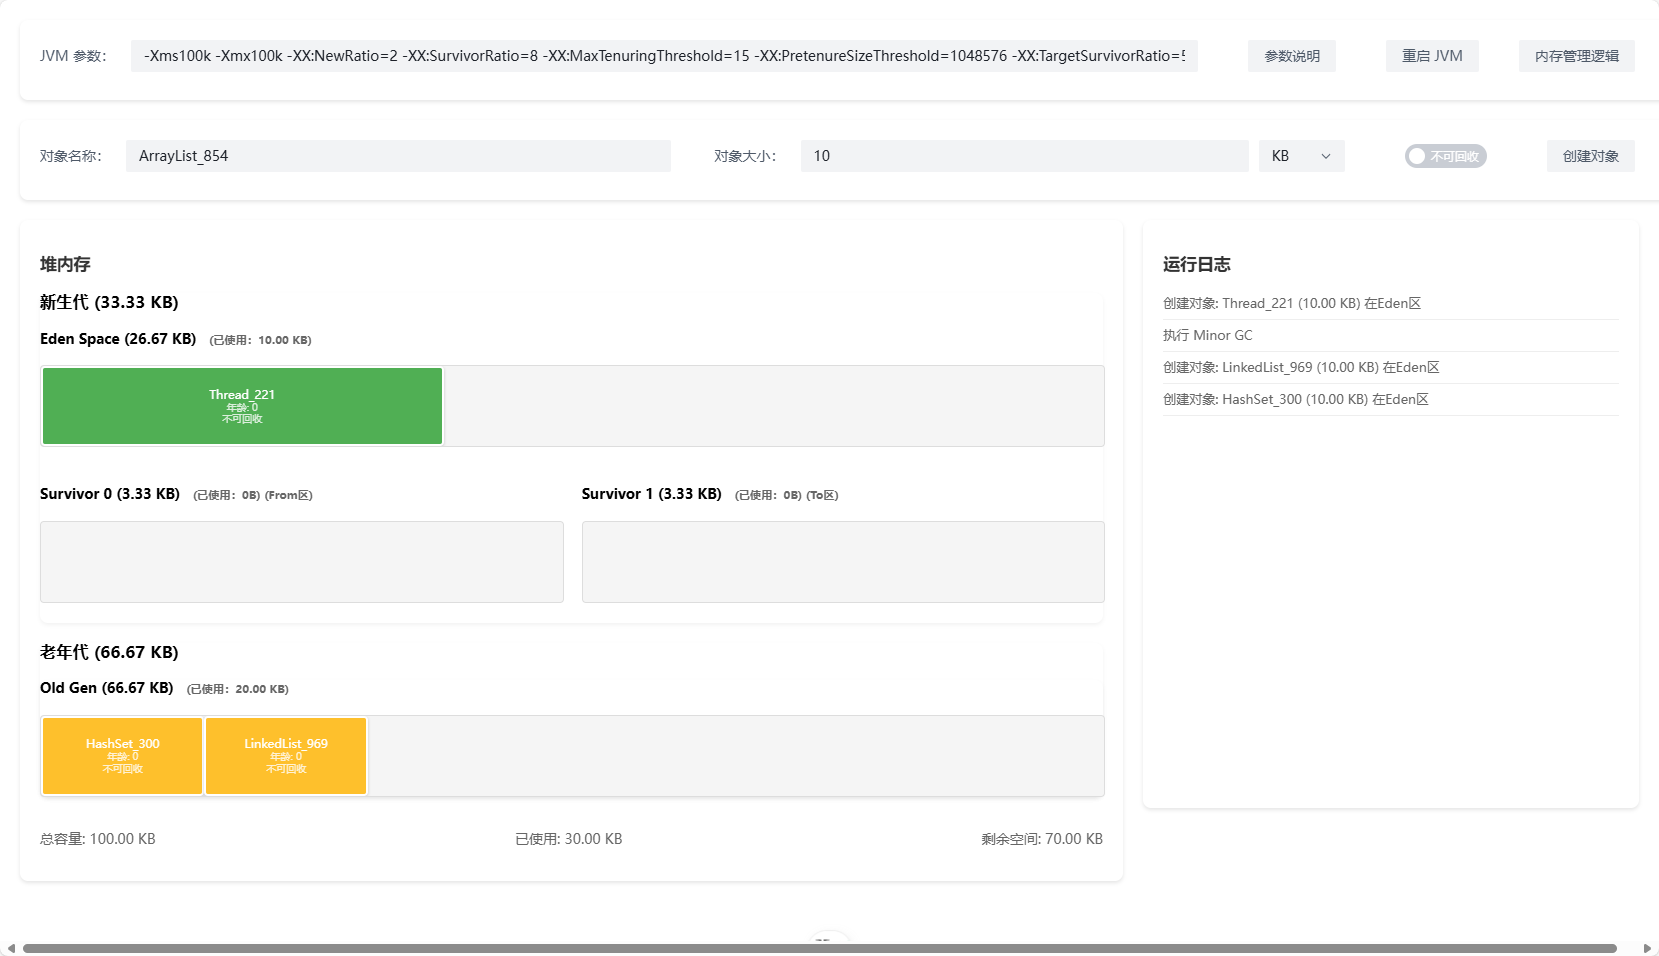
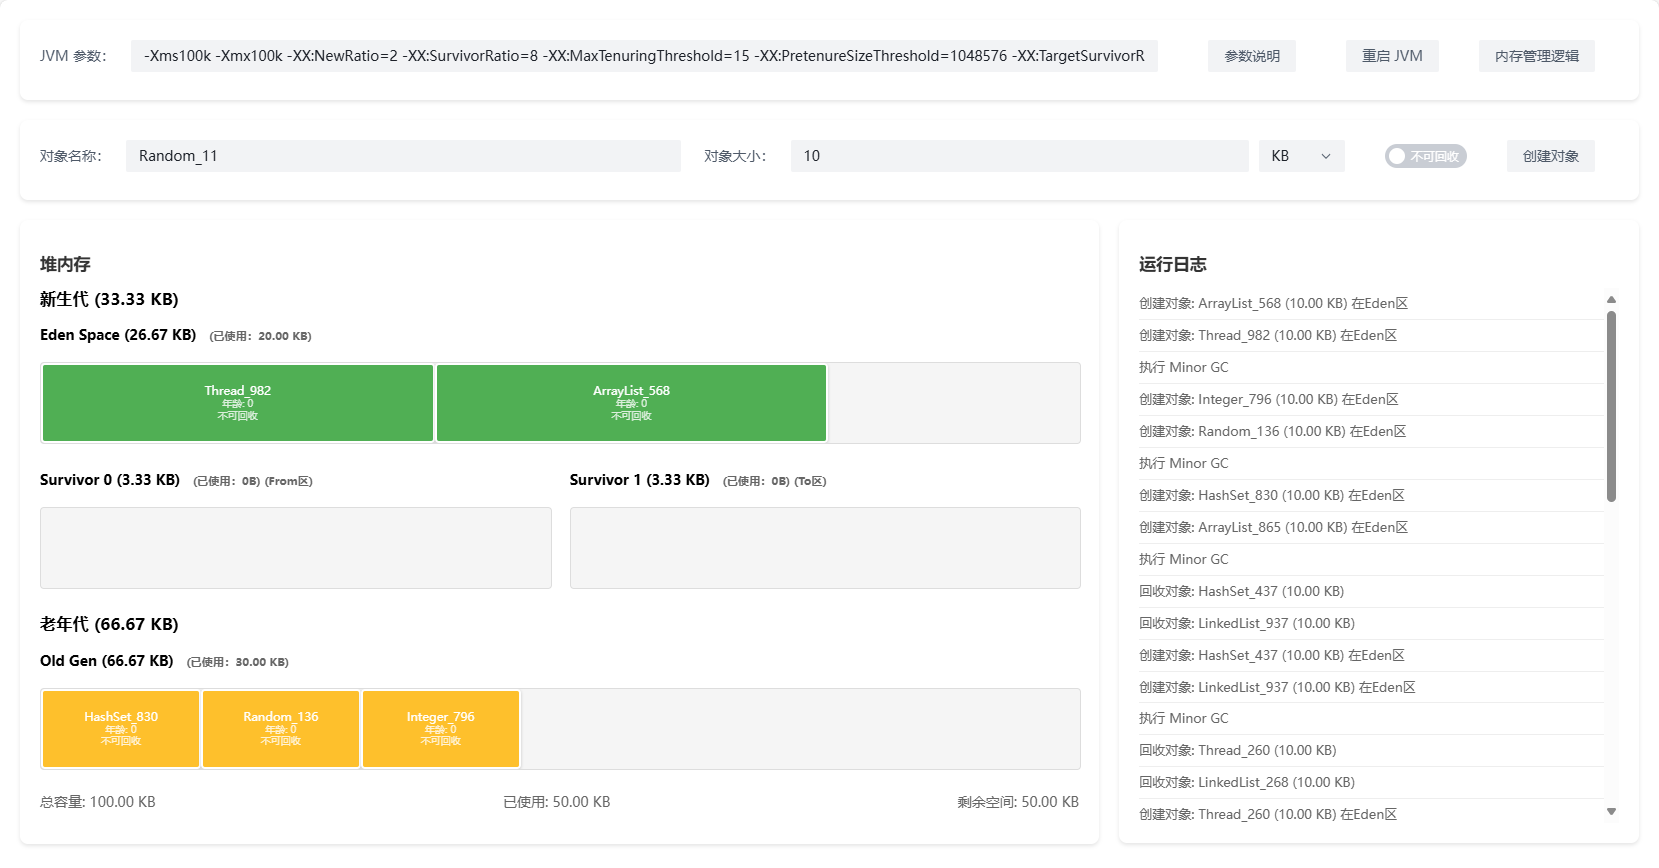
chore: 添加public目录下的image.png文件
该提交将image.png文件添加到public目录中，用于项目中的静态资源管理。

diff --git a/src/views/MemoryVisualizer.vue b/src/views/MemoryVisualizer.vue
@@ -1,110 +1,136 @@
 <template>
     <div class="jvm-memory-visualizer">
-        <!-- 内存配置区域 -->
-        <a-form :model="jvmArgs" layout="inline" class="memory-config-panel">
-            <a-form-item field="value" label="JVM 参数：" style="flex: 1;" :help="jvmArgs.error">
-                <a-input v-model="jvmArgs.value" placeholder="例如: -Xms512m -Xmx1024m" />
-            </a-form-item>
-            <a-form-item>
-                <a-button @click="showArgsHelp" style="margin: 0 10px">参数说明</a-button>
-            </a-form-item>
-            <a-form-item>
-                <a-button @click="restartJvm" class="restart-button" :loading="isRestarting">重启 JVM</a-button>
-            </a-form-item>
-            <a-form-item>
-                <a-button @click="showLogicTable">内存管理逻辑</a-button>
-            </a-form-item>
-        </a-form>
+        <a-space direction="vertical" :size="16" style="display: block;">
+            <a-row class="form-row">
+                <a-col :span="24">
+                    <!-- 内存配置区域 -->
+                    <a-form :model="jvmArgs" layout="inline" class="memory-config-panel">
+                        <a-form-item field="value" label="JVM 参数：" style="flex: 1;" :help="jvmArgs.error">
+                            <a-input v-model="jvmArgs.value" placeholder="例如: -Xms512m -Xmx1024m" />
+                        </a-form-item>
+                        <a-form-item>
+                            <a-button @click="showArgsHelp" style="margin: 0 10px">参数说明</a-button>
+                        </a-form-item>
+                        <a-form-item>
+                            <a-button @click="restartJvm" class="restart-button" :loading="isRestarting">重启
+                                JVM</a-button>
+                        </a-form-item>
+                        <a-form-item>
+                            <a-button @click="showLogicTable">内存管理逻辑</a-button>
+                        </a-form-item>
+                    </a-form>
+                </a-col>
+            </a-row>
+            <a-row class="form-row">
+                <a-col :span="24">
+                    <!-- 对象创建表单 -->
+                    <a-form ref="newObjectFormRef" layout="inline" :model="newObject" class="control-panel">
+                        <a-form-item field="name" label="对象名称：" style="flex: 1;">
+                            <a-input v-model="newObject.name" placeholder="输入对象名称" />
+                        </a-form-item>
+                        <a-form-item field="size" label="对象大小：" style="flex: 1;">
+                            <a-input-number v-model="newObject.size" :min="1" placeholder="输入对象大小" />
+                            <a-select v-model="newObject.unit" style="margin-left: 10px; width: 100px;">
+                                <a-option value="B">B</a-option>
+                                <a-option value="KB">KB</a-option>
+                                <a-option value="MB">MB</a-option>
+                            </a-select>
+                        </a-form-item>
+                        <a-form-item field="isGarbageCollectable">
+                            <a-switch v-model="newObject.isGarbageCollectable">
+                                <template #checked>可回收</template>
+                                <template #unchecked>不可回收</template>
+                            </a-switch>
+                        </a-form-item>
+                        <a-form-item>
+                            <a-dropdown trigger="hover" @click="createObject"
+                                :disabled="!isValidObject || isRestarting">
+                                <a-button>创建对象</a-button>
+                                <template #content>
+                                    <a-doption @click="createObjects(5)">5 个对象</a-doption>
+                                    <a-doption @click="createObjects(10)">10 个对象</a-doption>
+                                </template>
+                            </a-dropdown>
+                        </a-form-item>
+                    </a-form>
+                </a-col>
+            </a-row>
+            <a-row class="memory-container">
+                <!-- 内存区域可视化 -->
+                <a-col :span="16">
+                    <div class="memory-visualization">
+                        <h2>堆内存</h2>
+                        <div class="memory-regions">
+                            <!-- 新生代 -->
+                            <div class="young-gen">
+                                <h3>新生代 ({{ formatBytes(youngGenSize) }})</h3>
 
-        <!-- 对象创建表单 -->
-        <a-form ref="newObjectFormRef" layout="inline" :model="newObject" class="control-panel">
-            <a-form-item field="name" label="对象名称：" style="flex: 1;">
-                <a-input v-model="newObject.name" placeholder="输入对象名称" />
-            </a-form-item>
-            <a-form-item field="size" label="对象大小：" style="flex: 1;">
-                <a-input-number v-model="newObject.size" :min="1" placeholder="输入对象大小" />
-                <a-select v-model="newObject.unit" style="margin-left: 10px; width: 100px;">
-                    <a-option value="B">B</a-option>
-                    <a-option value="KB">KB</a-option>
-                    <a-option value="MB">MB</a-option>
-                </a-select>
-            </a-form-item>
-            <a-form-item field="isGarbageCollectable">
-                <a-switch v-model="newObject.isGarbageCollectable">
-                    <template #checked>可回收</template>
-                    <template #unchecked>不可回收</template>
-                </a-switch>
-            </a-form-item>
-            <a-form-item>
-                <a-dropdown trigger="hover" @click="createObject" :disabled="!isValidObject || isRestarting">
-                    <a-button>创建对象</a-button>
-                    <template #content>
-                        <a-doption @click="createObjects(5)">5 个对象</a-doption>
-                        <a-doption @click="createObjects(10)">10 个对象</a-doption>
-                    </template>
-                </a-dropdown>
-            </a-form-item>
-        </a-form>
+                                <!-- Eden区 -->
+                                <MemorySpace class="eden-space" space-name="Eden Space" :total-size="edenSize"
+                                    :used-size="getSpaceUsed(MEMORY_SPACE.EDEN)"
+                                    :heapObjects="heapObjects.filter(o => o.space === MEMORY_SPACE.EDEN)"
+                                    :getObjectStyle="getObjectStyle"
+                                    @toggleGarbageCollectable="toggleGarbageCollectable">
+                                </MemorySpace>
 
-        <!-- 内存区域可视化 -->
-        <div class="memory-container">
-            <div class="memory-visualization">
-                <h2>堆内存</h2>
-                <div class="memory-regions">
-                    <!-- 新生代 -->
-                    <div class="young-gen">
-                        <h3>新生代 ({{ formatBytes(youngGenSize) }})</h3>
+                                <!-- Survivor区 -->
+                                <div class="survivor-spaces">
+                                    <MemorySpace class="survivor-space" space-name="Survivor 0"
+                                        :space-desc="currentFromSpace === MEMORY_SPACE.SURVIVOR_0 ? 'From区' : 'To区'"
+                                        :total-size="survivorSize" :used-size="getSpaceUsed(MEMORY_SPACE.SURVIVOR_0)"
+                                        :heapObjects="heapObjects.filter(o => o.space === MEMORY_SPACE.SURVIVOR_0)"
+                                        :getObjectStyle="getObjectStyle"
+                                        @toggleGarbageCollectable="toggleGarbageCollectable">
+                                    </MemorySpace>
 
-                        <!-- Eden区 -->
-                        <MemorySpace class="eden-space" space-name="Eden Space" :total-size="edenSize"
-                            :used-size="getSpaceUsed(MEMORY_SPACE.EDEN)"
-                            :heapObjects="heapObjects.filter(o => o.space === MEMORY_SPACE.EDEN)"
-                            :getObjectStyle="getObjectStyle" @toggleGarbageCollectable="toggleGarbageCollectable">
-                        </MemorySpace>
-
-                        <!-- Survivor区 -->
-                        <div class="survivor-spaces">
-                            <MemorySpace class="survivor-space" space-name="Survivor 0"
-                                :space-desc="currentFromSpace === MEMORY_SPACE.SURVIVOR_0 ? 'From区' : 'To区'"
-                                :total-size="survivorSize" :used-size="getSpaceUsed(MEMORY_SPACE.SURVIVOR_0)"
-                                :heapObjects="heapObjects.filter(o => o.space === MEMORY_SPACE.SURVIVOR_0)"
-                                :getObjectStyle="getObjectStyle" @toggleGarbageCollectable="toggleGarbageCollectable">
-                            </MemorySpace>
-
-                            <MemorySpace class="survivor-space" space-name="Survivor 1"
-                                :space-desc="currentFromSpace === MEMORY_SPACE.SURVIVOR_1 ? 'From区' : 'To区'"
-                                :total-size="survivorSize" :used-size="getSpaceUsed(MEMORY_SPACE.SURVIVOR_1)"
-                                :heapObjects="heapObjects.filter(o => o.space === MEMORY_SPACE.SURVIVOR_1)"
-                                :getObjectStyle="getObjectStyle" @toggleGarbageCollectable="toggleGarbageCollectable">
-                            </MemorySpace>
+                                    <MemorySpace class="survivor-space" space-name="Survivor 1"
+                                        :space-desc="currentFromSpace === MEMORY_SPACE.SURVIVOR_1 ? 'From区' : 'To区'"
+                                        :total-size="survivorSize" :used-size="getSpaceUsed(MEMORY_SPACE.SURVIVOR_1)"
+                                        :heapObjects="heapObjects.filter(o => o.space === MEMORY_SPACE.SURVIVOR_1)"
+                                        :getObjectStyle="getObjectStyle"
+                                        @toggleGarbageCollectable="toggleGarbageCollectable">
+                                    </MemorySpace>
+                                </div>
+                            </div>
+                            <!-- 老年代 -->
+                            <div class="old-gen">
+                                <h3>老年代 ({{ formatBytes(oldGenSize) }})</h3>
+                                <MemorySpace class="old-gen" space-name="Old Gen" :total-size="oldGenSize"
+                                    :used-size="getSpaceUsed(MEMORY_SPACE.OLD_GEN)"
+                                    :heapObjects="heapObjects.filter(o => o.space === MEMORY_SPACE.OLD_GEN)"
+                                    :getObjectStyle="getObjectStyle"
+                                    @toggleGarbageCollectable="toggleGarbageCollectable">
+                                </MemorySpace>
+                            </div>
+                        </div>
+                        <div class="memory-info">
+                            <p>总容量: {{ formatBytes(heapSize) }}</p>
+                            <p>已使用: {{ formatBytes(usedHeapSize) }}</p>
+                            <p>剩余空间: {{ formatBytes(heapSize - usedHeapSize) }}</p>
                         </div>
                     </div>
-                    <!-- 老年代 -->
-                    <div class="old-gen">
-                        <h3>老年代 ({{ formatBytes(oldGenSize) }})</h3>
-                        <MemorySpace class="old-gen" space-name="Old Gen" :total-size="oldGenSize"
-                            :used-size="getSpaceUsed(MEMORY_SPACE.OLD_GEN)"
-                            :heapObjects="heapObjects.filter(o => o.space === MEMORY_SPACE.OLD_GEN)"
-                            :getObjectStyle="getObjectStyle" @toggleGarbageCollectable="toggleGarbageCollectable">
-                        </MemorySpace>
+                </a-col>
+                <!-- 运行日志 -->
+                <a-col :span="8">
+                    <div class="operation-history">
+                        <h2>运行日志</h2>
+                        <ul>
+                            <li v-for="(log, index) in operationLogs" :key="index">
+                                {{ log }}
+                            </li>
+                        </ul>
                     </div>
-                </div>
-                <div class="memory-info">
-                    <p>总容量: {{ formatBytes(heapSize) }}</p>
-                    <p>已使用: {{ formatBytes(usedHeapSize) }}</p>
-                    <p>剩余空间: {{ formatBytes(heapSize - usedHeapSize) }}</p>
-                </div>
-            </div>
+                </a-col>
+            </a-row>
+        </a-space>
+    </div>
 
-            <!-- 运行日志 -->
-            <div class="operation-history">
-                <h2>运行日志</h2>
-                <ul>
-                    <li v-for="(log, index) in operationLogs" :key="index">
-                        {{ log }}
-                    </li>
-                </ul>
-            </div>
+    <div class="jvm-memory-visualizer">
+
+        <div class="memory-container">
+
+
+
         </div>
     </div>
 
@@ -748,131 +774,19 @@ const handleLogicChange = (logic: { id: string; enabled: boolean }) => {
     padding: 20px;
 }
 
-.memory-config-panel {
+.jvm-memory-visualizer .form-row {
     background: white;
     padding: 20px;
     border-radius: 8px;
     box-shadow: 0 2px 4px rgba(0, 0, 0, 0.1);
     margin-bottom: 20px;
-}
-
-.config-group {
-    display: flex;
-    gap: 20px;
-    flex-wrap: wrap;
-}
-
-.config-item {
-    flex: 1;
-    min-width: 200px;
-}
-
-.config-item label {
-    display: block;
-    margin-bottom: 5px;
-}
-
-.config-item .size-input-group {
-    display: flex;
-    align-items: center;
-    gap: 10px;
-}
-
-.config-item input {
-    flex: 1;
-    padding: 8px;
-    border: 1px solid #ddd;
-    border-radius: 4px;
-}
-
-.config-item .unit {
-    width: 30px;
-    color: #666;
-}
-
-.control-panel {
-    background: white;
-    padding: 20px;
-    border-radius: 8px;
-    box-shadow: 0 2px 4px rgba(0, 0, 0, 0.1);
-    margin-bottom: 20px;
-    display: flex;
-    flex-wrap: wrap;
-    gap: 20px;
-}
-
-.memory-container {
-    display: flex;
-    gap: 20px;
-    width: 100%;
-}
-
-.form-group {
-    flex: 1;
-}
-
-.form-group label {
-    display: block;
-    margin-bottom: 5px;
-}
-
-.form-group input {
-    width: 100%;
-    padding: 8px;
-    padding-right: 0px;
-    border: 1px solid #ddd;
-    border-radius: 4px;
-}
-
-.error-message {
-    color: #dc3545;
-    font-size: 0.875em;
-    margin-top: 5px;
-}
-
-.size-input-group {
-    display: flex;
-    gap: 10px;
-}
-
-.size-input-group input {
-    flex: 1;
-}
-
-.size-input-group select {
-    width: 80px;
-    padding: 8px;
-    border: 1px solid #ddd;
-    border-radius: 4px;
-    background-color: white;
 }
 
 .memory-visualization {
-    width: 70%;
-    margin: 0;
     padding: 20px;
     background: white;
     border-radius: 8px;
     box-shadow: 0 2px 4px rgba(0, 0, 0, 0.1);
-}
-
-.memory-regions {
-    margin: 20px 0;
-    width: 100%;
-}
-
-.young-gen,
-.old-gen {
-    background: #fff;
-    border-radius: 8px;
-    margin-bottom: 20px;
-    box-shadow: 0 2px 4px rgba(0, 0, 0, 0.05);
-    width: 100%;
-}
-
-.eden-space,
-.survivor-space {
-    margin: 10px 0;
 }
 
 .survivor-spaces {
@@ -893,8 +807,7 @@ const handleLogicChange = (logic: { id: string; enabled: boolean }) => {
 }
 
 .operation-history {
-    width: 30%;
-    margin: 0;
+    margin-left: 20px;
     background: white;
     padding: 20px;
     border-radius: 8px;
@@ -906,7 +819,7 @@ const handleLogicChange = (logic: { id: string; enabled: boolean }) => {
     list-style: none;
     padding: 0;
     margin: 0;
-    height: 500px;
+    height: 535px;
     overflow-y: auto;
     font-size: 13px;
 }
